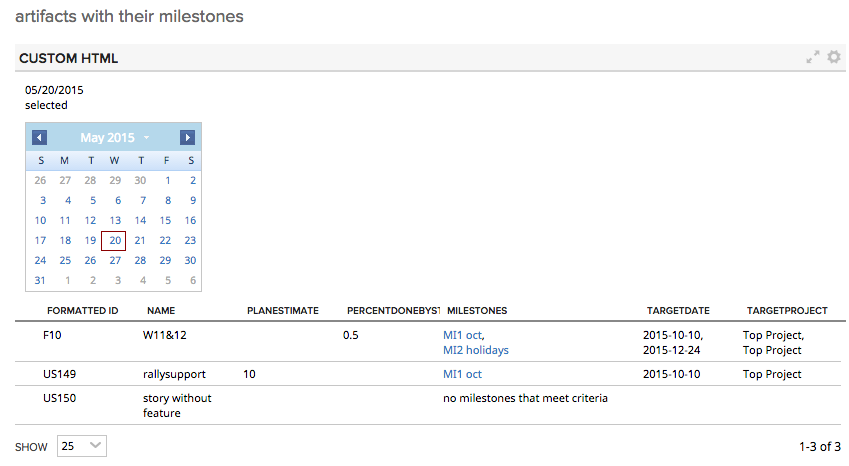
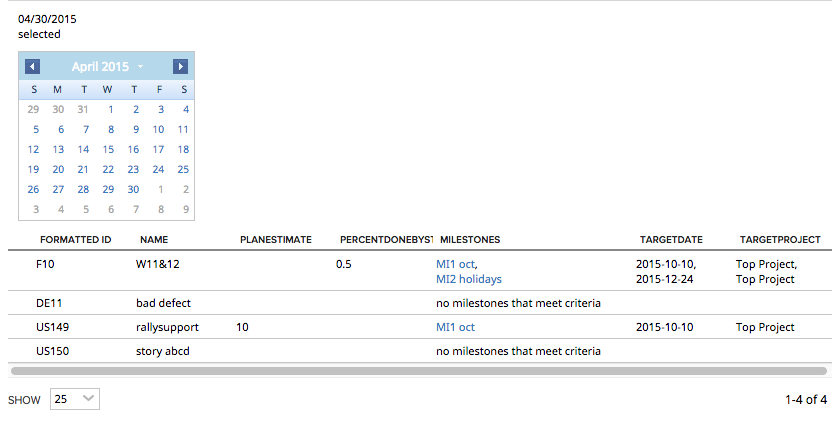
updated Readme

Changed region(s): [[0.0, 0.0, 0.9988, 0.9742], [0.9364, 0.0913, 0.9988, 0.1522]]

diff --git a/README.md b/README.md
@@ -2,6 +2,9 @@ Artifacts with Milestones
 =========================
 
 ## Overview
+This app example shows how stitch data of artifacts and related milestones together and pass a custom json to [Rally.data.wsapi.artifact.Store ](https://help.rallydev.com/apps/2.0/doc/#!/api/Rally.data.wsapi.artifact.Store)
+Artifacts are filtered by the presence of Milestones.
+Milestones further filtered by TargetDate.
 
 ![](pic1.png)
 
